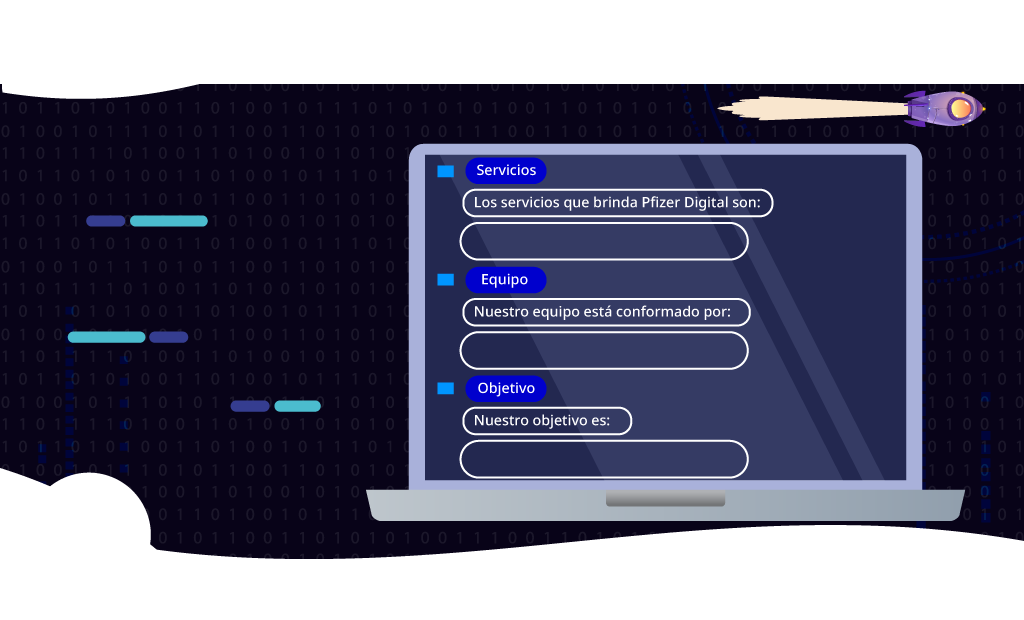
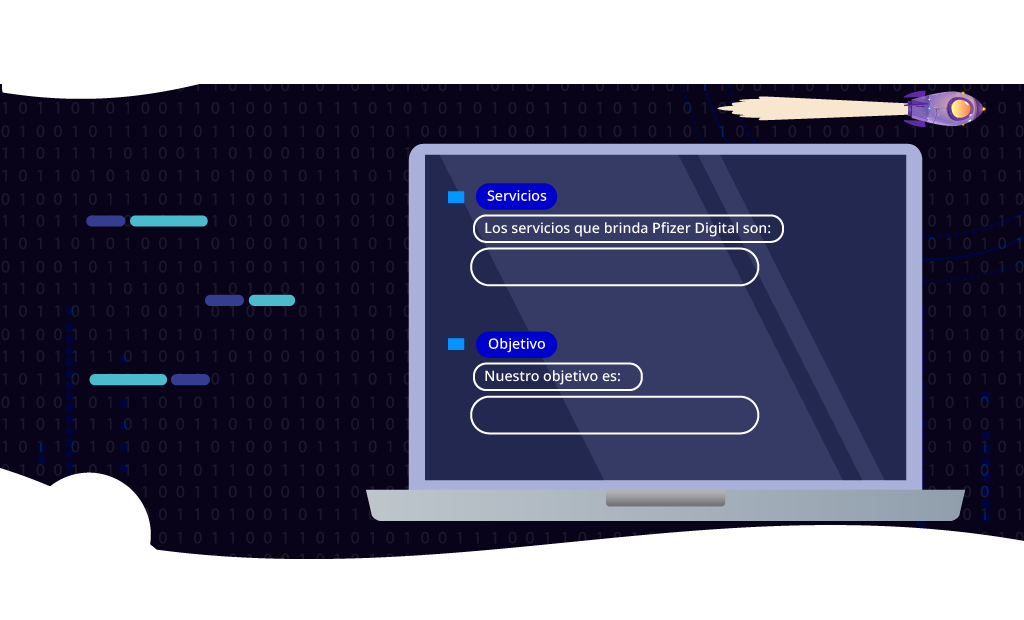
18

diff --git a/Pfizer/07_Induccion_Digital/paginas/pagina04.html b/Pfizer/07_Induccion_Digital/paginas/pagina04.html
@@ -34,8 +34,8 @@
     <img class="elementos" id="popup2f" src="../img/pagina04/popup2f.png" data-posX="0" data-posY="0" />
     <img class="elementos" id="popup3f" src="../img/pagina04/popup3f.png" data-posX="0" data-posY="0" />
 
-    <div _id="1" id="lugar1" class="elementos boton drop" data-posX="460" data-posY="438" style="width: 290px; height: 40px;"></div>
-    <div _id="2" id="lugar2" class="elementos boton drop" data-posX="460" data-posY="220" style="width: 290px; height: 40px;"></div>
+    <div _id="1" id="lugar1" class="elementos boton drop" data-posX="470" data-posY="396" style="width: 290px; height: 40px;"></div>
+    <div _id="2" id="lugar2" class="elementos boton drop" data-posX="470" data-posY="247" style="width: 290px; height: 40px;"></div>
     <div _id="3" id="lugar3" class="elementos boton drop" data-posX="460" data-posY="330" style="width: 290px; height: 40px;"></div>
     <!-- <div _id="4" id="lugar4" class="elementos boton drop" data-posX="450" data-posY="120" style="width: 450px; height: 300px;"></div>
     <div _id="5" id="lugar5" class="elementos boton drop" data-posX="450" data-posY="120" style="width: 450px; height: 300px;"></div>
@@ -44,8 +44,8 @@
     <img class="elementos" id="popup0" src="../img/pagina04/popup0.png" data-posX="0" data-posY="0" />
     <img class="elementos" id="botonCerrar0" src="../img/pagina04/botonCerrar.png" data-posX="890" data-posY="140" />
 
-    <img class="elementos drag" _id="1" id="pieza1" src="../img/pagina04/boton1.png" data-posX="50" data-posY="232" />
-    <img class="elementos drag" _id="2" id="pieza2" src="../img/pagina04/boton2.png" data-posX="30" data-posY="280" />
+    <img class="elementos drag" _id="1" id="pieza1" src="../img/pagina04/boton1.png" data-posX="50" data-posY="240" />
+    <img class="elementos drag" _id="2" id="pieza2" src="../img/pagina04/boton2.png" data-posX="30" data-posY="320" />
     <img class="elementos drag" _id="3" id="pieza3" src="../img/pagina04/boton3.png" data-posX="50" data-posY="330" />
     <!-- <img class="elementos drag" _id="4" id="pieza4" src="../img/pagina04/boton4.png" data-posX="300" data-posY="230" />
     <img class="elementos drag" _id="5" id="pieza5" src="../img/pagina04/boton5.png" data-posX="320" data-posY="360" />
@@ -102,7 +102,7 @@
 
         var scalePage = calcularEscala();
         console.log('scalePage', scalePage);
-        var cuantasPreguntas = 3; //← Numero de preguntas
+        var cuantasPreguntas = 2; //← Numero de preguntas
         var contador = 0;
         var no_objetos = new Array(1, 0); //← Numero de Piezas
         var dragsColocados = new Array();
